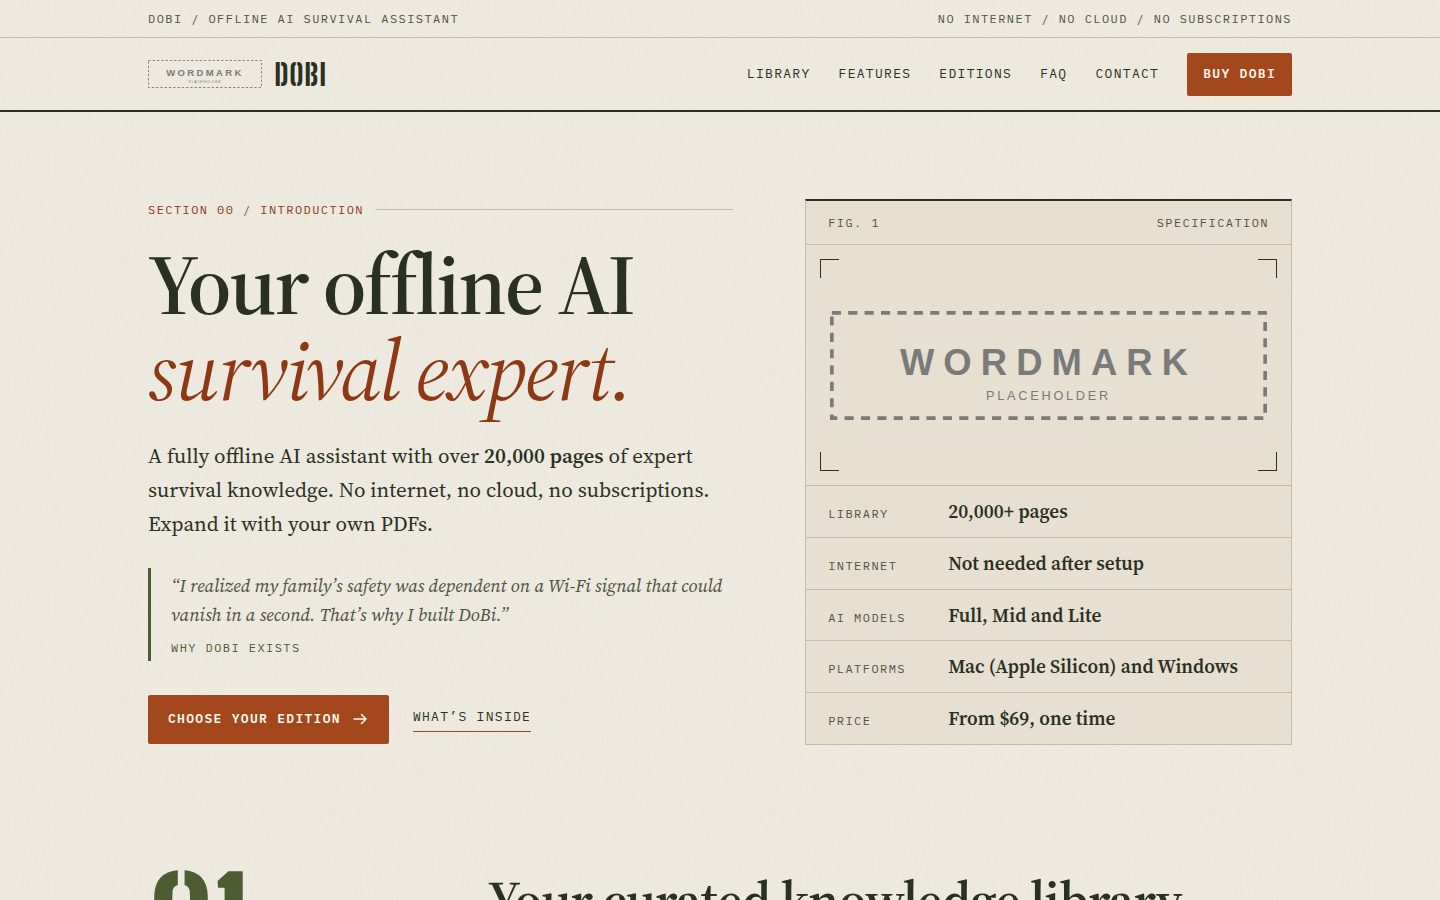
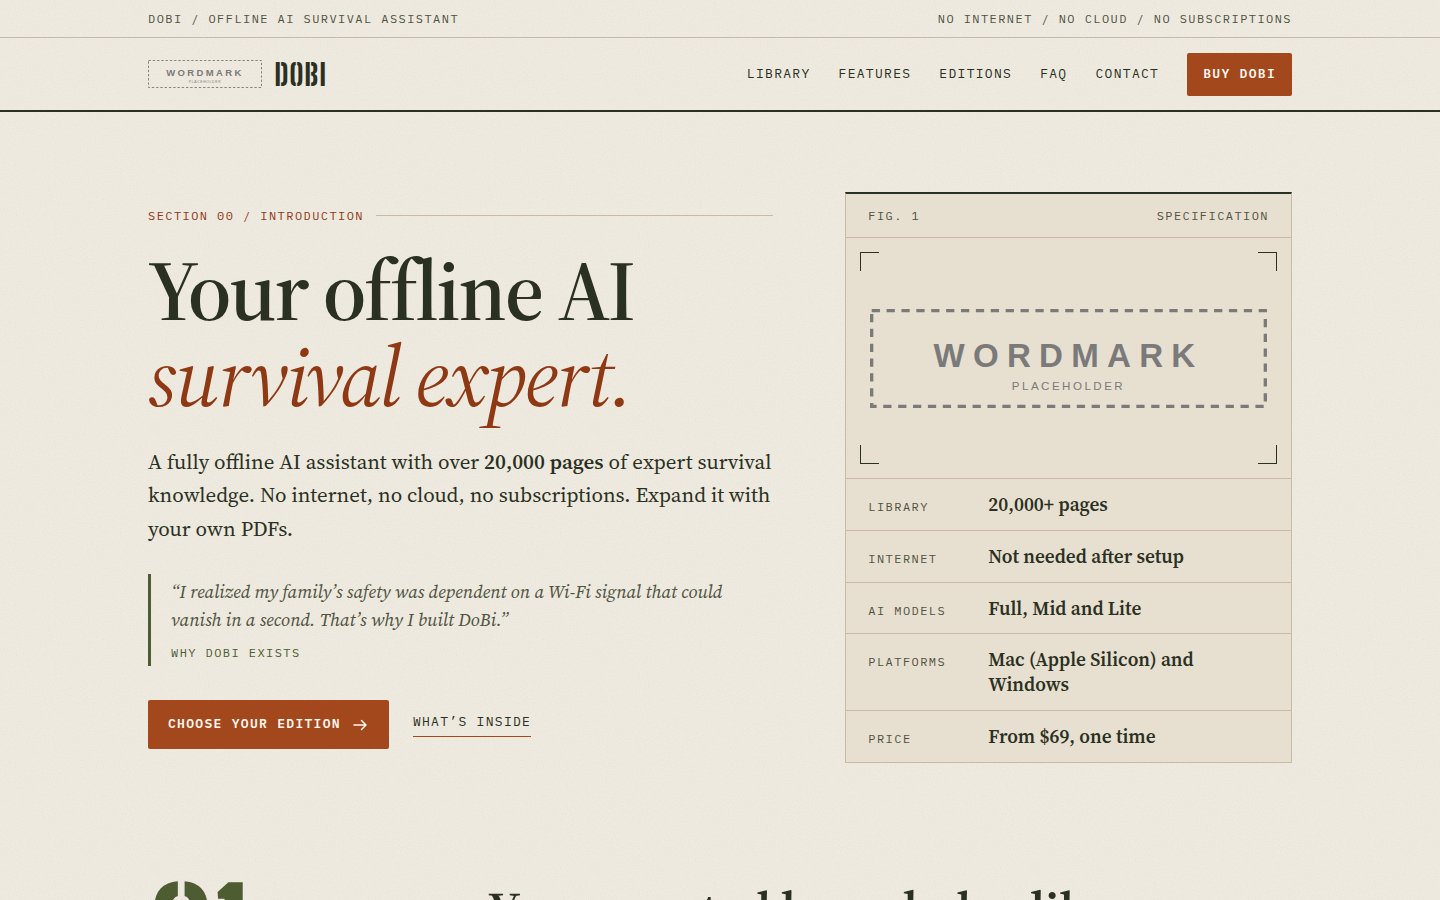
Add v2 mockup index page and final screenshots

diff --git a/mockups/v2/index.html b/mockups/v2/index.html
@@ -1,0 +1,95 @@
+<!DOCTYPE html>
+<html lang="en">
+<head>
+<meta charset="UTF-8">
+<meta name="viewport" content="width=device-width, initial-scale=1.0">
+<meta name="robots" content="noindex, nofollow">
+<title>DoBi homepage mockups v2</title>
+<style>
+  * { box-sizing: border-box; margin: 0; padding: 0; }
+  body { font-family: system-ui, -apple-system, "Segoe UI", Roboto, sans-serif; background: #F4F4F2; color: #1E1E1C; line-height: 1.55; padding: 56px 24px 80px; }
+  .wrap { max-width: 1180px; margin: 0 auto; }
+  header { max-width: 760px; margin-bottom: 44px; }
+  h1 { font-size: 34px; letter-spacing: -.02em; line-height: 1.15; }
+  header p { margin-top: 12px; color: #4A4A46; font-size: 17px; }
+  .grid { display: grid; grid-template-columns: repeat(2, minmax(0, 1fr)); gap: 28px; }
+  .card { background: #FFFFFF; border: 1px solid #DDDDD8; border-radius: 10px; overflow: hidden; display: flex; flex-direction: column; }
+  .card > a.shot { display: block; aspect-ratio: 1440 / 900; overflow: hidden; border-bottom: 1px solid #DDDDD8; background: #EEE; }
+  .card img { width: 100%; height: 100%; object-fit: cover; object-position: top; display: block; }
+  .body { padding: 22px 24px 24px; display: flex; flex-direction: column; flex: 1; }
+  .body h2 { font-size: 22px; letter-spacing: -.01em; }
+  .body h2 span { color: #6A6A64; font-weight: 500; }
+  .body p { margin-top: 8px; color: #3C3C38; font-size: 15px; }
+  .swatches { display: flex; gap: 6px; margin-top: 16px; }
+  .swatches i { width: 28px; height: 28px; border-radius: 50%; border: 1px solid rgba(0,0,0,.12); }
+  .links { margin-top: auto; padding-top: 18px; display: flex; flex-wrap: wrap; gap: 8px 16px; font-size: 14px; }
+  .links a { color: #1E1E1C; font-weight: 600; }
+  .links a.open { background: #1E1E1C; color: #FFF; text-decoration: none; padding: 8px 14px; border-radius: 6px; }
+  .note { margin-top: 44px; background: #FFFFFF; border: 1px solid #DDDDD8; border-radius: 10px; padding: 24px 28px; }
+  .note h3 { font-size: 18px; }
+  .note p, .note li { color: #3C3C38; font-size: 15px; margin-top: 8px; }
+  .note ul { padding-left: 20px; }
+  code { font-family: ui-monospace, Menlo, monospace; font-size: 13px; background: #F0F0EC; padding: 1px 5px; border-radius: 4px; }
+  @media (max-width: 820px) { .grid { grid-template-columns: 1fr; } }
+</style>
+</head>
+<body>
+<div class="wrap">
+  <header>
+    <h1>DoBi homepage: four visual directions (v2)</h1>
+    <p>Mockups only. Each page covers the nav, hero, knowledge library, features, editions and footer, using copy and prices from the live site. Not linked from the site and kept out of the sitemap.</p>
+  </header>
+
+  <div class="grid">
+    <article class="card">
+      <a class="shot" href="a-field.html"><img src="screenshots/a-field-desktop-fold.png" alt="Field, above the fold"></a>
+      <div class="body">
+        <h2>A. Field <span>/ field manual</span></h2>
+        <p>Split hero with a spec card, numbered chapters with a sticky margin column, and an order-form edition table. Source Serif 4 with IBM Plex Mono labels and stencil numerals, on warm paper with a fine grain.</p>
+        <div class="swatches"><i style="background:#F3EEE4"></i><i style="background:#E7DFD0"></i><i style="background:#A3471C"></i><i style="background:#4E5C32"></i><i style="background:#2A3022"></i></div>
+        <div class="links"><a class="open" href="a-field.html">Open</a><a href="screenshots/a-field-desktop-full.png">Desktop full</a><a href="screenshots/a-field-mobile-full.png">Mobile full</a></div>
+      </div>
+    </article>
+
+    <article class="card">
+      <a class="shot" href="b-blaze.html"><img src="screenshots/b-blaze-desktop-fold.png" alt="Blaze, above the fold"></a>
+      <div class="body">
+        <h2>B. Blaze <span>/ dark, high contrast</span></h2>
+        <p>Asymmetric hero with a giant condensed headline and a stat rail, full-bleed orange bands, and an SSD-first edition slab. Archivo at narrow and normal widths, square corners throughout.</p>
+        <div class="swatches"><i style="background:#161513"></i><i style="background:#23211F"></i><i style="background:#FF6B00"></i><i style="background:#A8A29A"></i><i style="background:#F4EFE6"></i></div>
+        <div class="links"><a class="open" href="b-blaze.html">Open</a><a href="screenshots/b-blaze-desktop-full.png">Desktop full</a><a href="screenshots/b-blaze-mobile-full.png">Mobile full</a></div>
+      </div>
+    </article>
+
+    <article class="card">
+      <a class="shot" href="c-topo.html"><img src="screenshots/c-topo-desktop-fold.png" alt="Topo, above the fold"></a>
+      <div class="body">
+        <h2>C. Topo <span>/ heritage catalog</span></h2>
+        <p>Centered masthead, an arched plate for the mark, a two-column catalog index and catalog-style edition listings. Libre Caslon with Libre Franklin small caps and a subtle contour-line texture.</p>
+        <div class="swatches"><i style="background:#F6F1E7"></i><i style="background:#EBE4D4"></i><i style="background:#2C5A3C"></i><i style="background:#B85C38"></i><i style="background:#1C241C"></i></div>
+        <div class="links"><a class="open" href="c-topo.html">Open</a><a href="screenshots/c-topo-desktop-full.png">Desktop full</a><a href="screenshots/c-topo-mobile-full.png">Mobile full</a></div>
+      </div>
+    </article>
+
+    <article class="card">
+      <a class="shot" href="d-rescue.html"><img src="screenshots/d-rescue-desktop-fold.png" alt="Rescue, above the fold"></a>
+      <div class="body">
+        <h2>D. Rescue <span>/ institutional spec sheet</span></h2>
+        <p>Full-width headline over a four-cell fact strip, a tabular library grid, a feature data sheet and a side-by-side edition comparison table. Public Sans with DM Mono codes and a red rule system.</p>
+        <div class="swatches"><i style="background:#F5F6F8"></i><i style="background:#FFFFFF"></i><i style="background:#C0272C"></i><i style="background:#545C69"></i><i style="background:#1B2430"></i></div>
+        <div class="links"><a class="open" href="d-rescue.html">Open</a><a href="screenshots/d-rescue-desktop-full.png">Desktop full</a><a href="screenshots/d-rescue-mobile-full.png">Mobile full</a></div>
+      </div>
+    </article>
+  </div>
+
+  <section class="note">
+    <h3>Logo slot</h3>
+    <p>New marks are being designed separately, so no direction depends on the current hooded figure. Each page has one swappable mark: <code>&lt;img class="brand-mark" src="logos/&lt;direction&gt;.png"&gt;</code>, used in the nav and the hero and sized only by <code>--mark-size</code>. The current figure is there as a stand-in, recolored per palette by <code>mockups/recolor-logos.py</code>.</p>
+    <ul>
+      <li>To try a new mark, add <code>?mark=logos/your-file.png</code> to any page URL, or change the <code>src</code> on the two <code>.brand-mark</code> images.</li>
+      <li>Swap tests with neutral placeholders: Field <a href="a-field.html?mark=logos/placeholder-badge.svg">badge</a> / <a href="a-field.html?mark=logos/placeholder-wordmark.svg">wordmark</a>, Blaze <a href="b-blaze.html?mark=logos/placeholder-badge.svg">badge</a> / <a href="b-blaze.html?mark=logos/placeholder-wordmark.svg">wordmark</a>, Topo <a href="c-topo.html?mark=logos/placeholder-badge.svg">badge</a> / <a href="c-topo.html?mark=logos/placeholder-wordmark.svg">wordmark</a>, Rescue <a href="d-rescue.html?mark=logos/placeholder-badge.svg">badge</a> / <a href="d-rescue.html?mark=logos/placeholder-wordmark.svg">wordmark</a>.</li>
+    </ul>
+  </section>
+</div>
+</body>
+</html>
